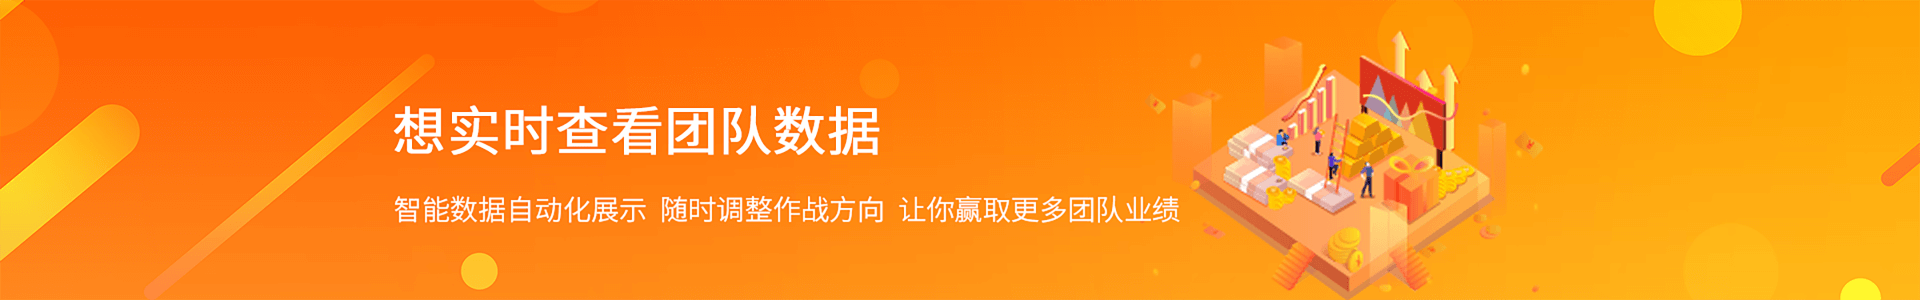
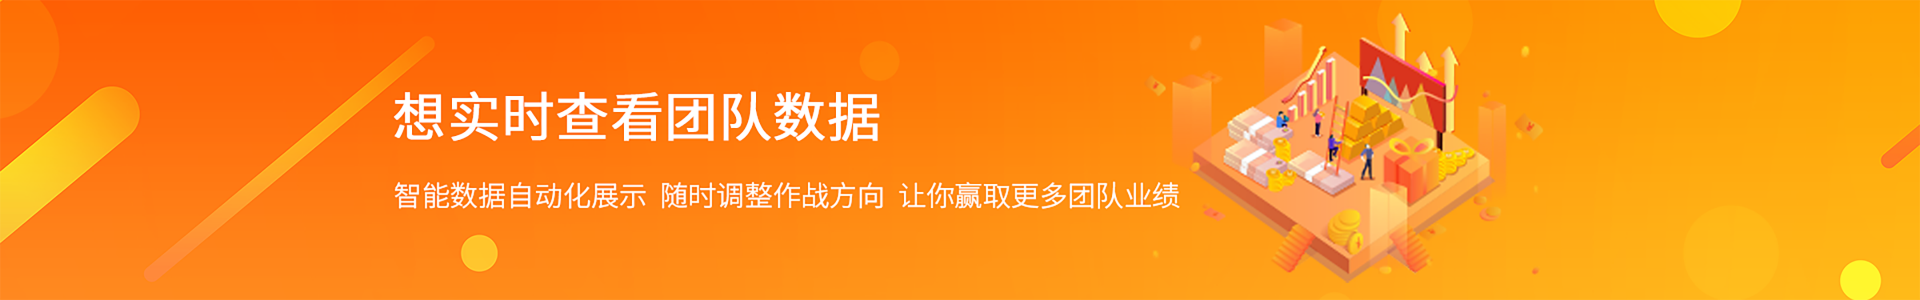
调整banner和坐席数据管理的线索转移

diff --git a/src/components/Crm/SeatData.vue b/src/components/Crm/SeatData.vue
@@ -24,7 +24,7 @@
                     class="screen-li"
                     v-model="form.examItemText"
                     :fetch-suggestions="querySearch"
-                    placeholder="请输入考试项目"
+                    placeholder="输入考试项目"
                     :trigger-on-focus="true"
                     clearable
                     @clear="autocompleteClear"
@@ -99,7 +99,7 @@
 
             <el-col :span="3">
 
-                <el-input v-model="form.saleName" size="small" placeholder="请输入姓名" class="screen-li"></el-input>
+                <el-input v-model="form.saleName" size="small" placeholder="请输入所属坐席" class="screen-li"></el-input>
 
             </el-col>
 
@@ -121,7 +121,7 @@
             <el-col :span="4">
                 <svg-icon class="border-icon smoke-fr" @click="editFieldHandle" icon-title="表头管理" icon-class="field" />
                 <svg-icon class="border-icon smoke-fr" @click="TransferToGoogClick" icon-title="释放数据" icon-class="release-grey" />
-                <svg-icon class="border-icon smoke-fr" @click="pushPeopleClick" icon-title="分配至人" icon-class="toperson" />
+                <svg-icon class="border-icon smoke-fr" @click="pushPeopleClick" icon-title="线索转移" icon-class="toperson" />
             </el-col>
 
         </el-row>
@@ -214,23 +214,27 @@
 
             <el-row style="border: 1px dashed #ccc; padding: 20px; margin: 20px;">
 
-                <el-tag 
-                    v-for="(item,index) in tagList" :key="item.id"
-                    :class="tagId == item.userUuid ? 'tag_class tag_default_class' : 'tag_default_class'"
-                    type="info"
-                    effect="plain"
-                    @click="tagClickItem(item)"
-                    >{{item.userName}}
-                </el-tag>
+                <el-autocomplete
+                    ref="autocompleteTag"
+                    size="small"
+                    class="screen-li"
+                    v-model="tagIdText"
+                    :fetch-suggestions="querySearchTag"
+                    placeholder="请您选择要分配的人员"
+                    :trigger-on-focus="true"
+                    clearable
+                    @clear="autocompleteClearTag"
+                    @select="handleSelectTag"
+                ></el-autocomplete>
+
+                <div style="margin-top: 20px;">
+
+                    <el-button type="primary" size="small" @click="seatActSeat">确定</el-button>
+                    <el-button plain size="small" @click="handleCloseTag">取消</el-button>
+
+                </div>
 
             </el-row>
-
-            <div style="text-align: center;">
-
-                <el-button type="primary" style="margin-left: 20px;" size="small" @click="seatActSeat">确定</el-button>
-                <el-button plain size="small" @click="handleCloseTag">取消</el-button>
-
-            </div>
 
         </el-drawer>
 
@@ -329,6 +333,7 @@ export default {
             tagList: [],
             tableSelectList: [],
             tagId: '',
+            tagIdText: '',
         }
     },
     // watch:{
@@ -389,9 +394,6 @@ export default {
                 })
             }
         },
-        tagClickItem(item){
-            this.tagId = item.userUuid;
-        },
         pushPeopleClick() {
             let clueDataSUuidArr = [];
             this.$refs.tableSelect.selection.map(sll => {
@@ -410,8 +412,11 @@ export default {
             }
         },
         dataViewPermissionUserList() {
-            this.$smoke_post(dataViewPermissionUserList, {}).then(res => {
+            this.$smoke_get(dataViewPermissionUserList + `/1`, {}).then(res => {
                 if(res.code == 200) {
+                    res.data.map(sll => {
+                        sll.value = sll.userName;
+                    })
                     this.tagList = res.data;
                 }else{
                     this.$message({
@@ -581,6 +586,12 @@ export default {
             // 调用 callback 返回建议列表的数据
             cb(results);
         },
+        querySearchTag(queryString, cb) {
+            var restaurants = this.tagList;
+            var results = queryString ? restaurants.filter(this.createFilter(queryString)) : restaurants;
+            // 调用 callback 返回建议列表的数据
+            cb(results);
+        },
         createFilter(queryString) {
             return (restaurant) => {
               return (restaurant.value.toLowerCase().indexOf(queryString.toLowerCase()) > -1);
@@ -590,12 +601,25 @@ export default {
             this.form.examItemId = item.id;
             this.form.examItemText = item.value;
         },
+        handleSelectTag(item) {
+            this.tagId = item.userUuid;
+            this.tagIdText = item.userName;
+        },
         autocompleteClear() {
             this.$nextTick(() => {
                 this.$refs.autocomplete.$children
                     .find(c => c.$el.className.includes('el-input'))
                     .blur();
                 this.form.examItemId = '';
+                this.$refs.autocomplete.focus();
+            })
+        },
+        autocompleteClearTag() {
+            this.$nextTick(() => {
+                this.$refs.autocompleteTag.$children
+                    .find(c => c.$el.className.includes('el-input'))
+                    .blur();
+                this.tagId = '';
                 this.$refs.autocomplete.focus();
             })
         },

diff --git a/src/components/Index/Index.vue b/src/components/Index/Index.vue
@@ -1,8 +1,8 @@
 <template>
     <div class="main-area">
-        <el-carousel trigger="click" height="300px">
-            <el-carousel-item v-for="item in bannerList" :key="item.url" style="background: #F1F1F1;">
-                <img :src="item.url" alt="">
+        <el-carousel trigger="click" height="360px">
+            <el-carousel-item v-for="item in bannerList" :key="item.url">
+                <img :src="item.url" alt="" style="margin-top: 60px;">
             </el-carousel-item>
         </el-carousel>
         <el-row class="user-info" type="flex" justify="center">
@@ -210,14 +210,6 @@ body{
     display: flex;
     flex-direction: column;
     margin-left: 0 !important;
-    .el-carousel{
-        .el-carousel-item{
-            text-align: center;
-            img{
-                height: 300px;
-            }
-        }
-    }
     .user-info{
         height: 136px;
         background: #fff;
@@ -304,12 +296,35 @@ body{
             margin-top: 18px;
         }
     }
-}
 
-    @media screen and (max-width: 1640px) {
+    @media screen and (max-width: 1366px) {
         .el-carousel__item{
             img{
-                margin-left: -2rem !important;
+                margin-left: -4rem !important;
+            }
+        }
+    }
+
+    @media screen and (min-width: 1366px) {
+        .el-carousel__item{
+            img{
+                margin-left: -4rem !important;
+            }
+        }
+    }
+
+    @media screen and (min-width: 1440px) {
+        .el-carousel__item{
+            img{
+                margin-left: -2.6rem !important;
+            }
+        }
+    }
+
+    @media screen and (min-width: 1640px) {
+        .el-carousel__item{
+            img{
+                margin-left: -1rem !important;
             }
         }
     }
@@ -318,10 +333,10 @@ body{
             img{
                 // border-radius: 8px;
                 width: 100%;
-                height: 100%;
+                height: 300px;
                 margin-left: 0rem !important;
             }
         }
     }
-
+}
 </style>
